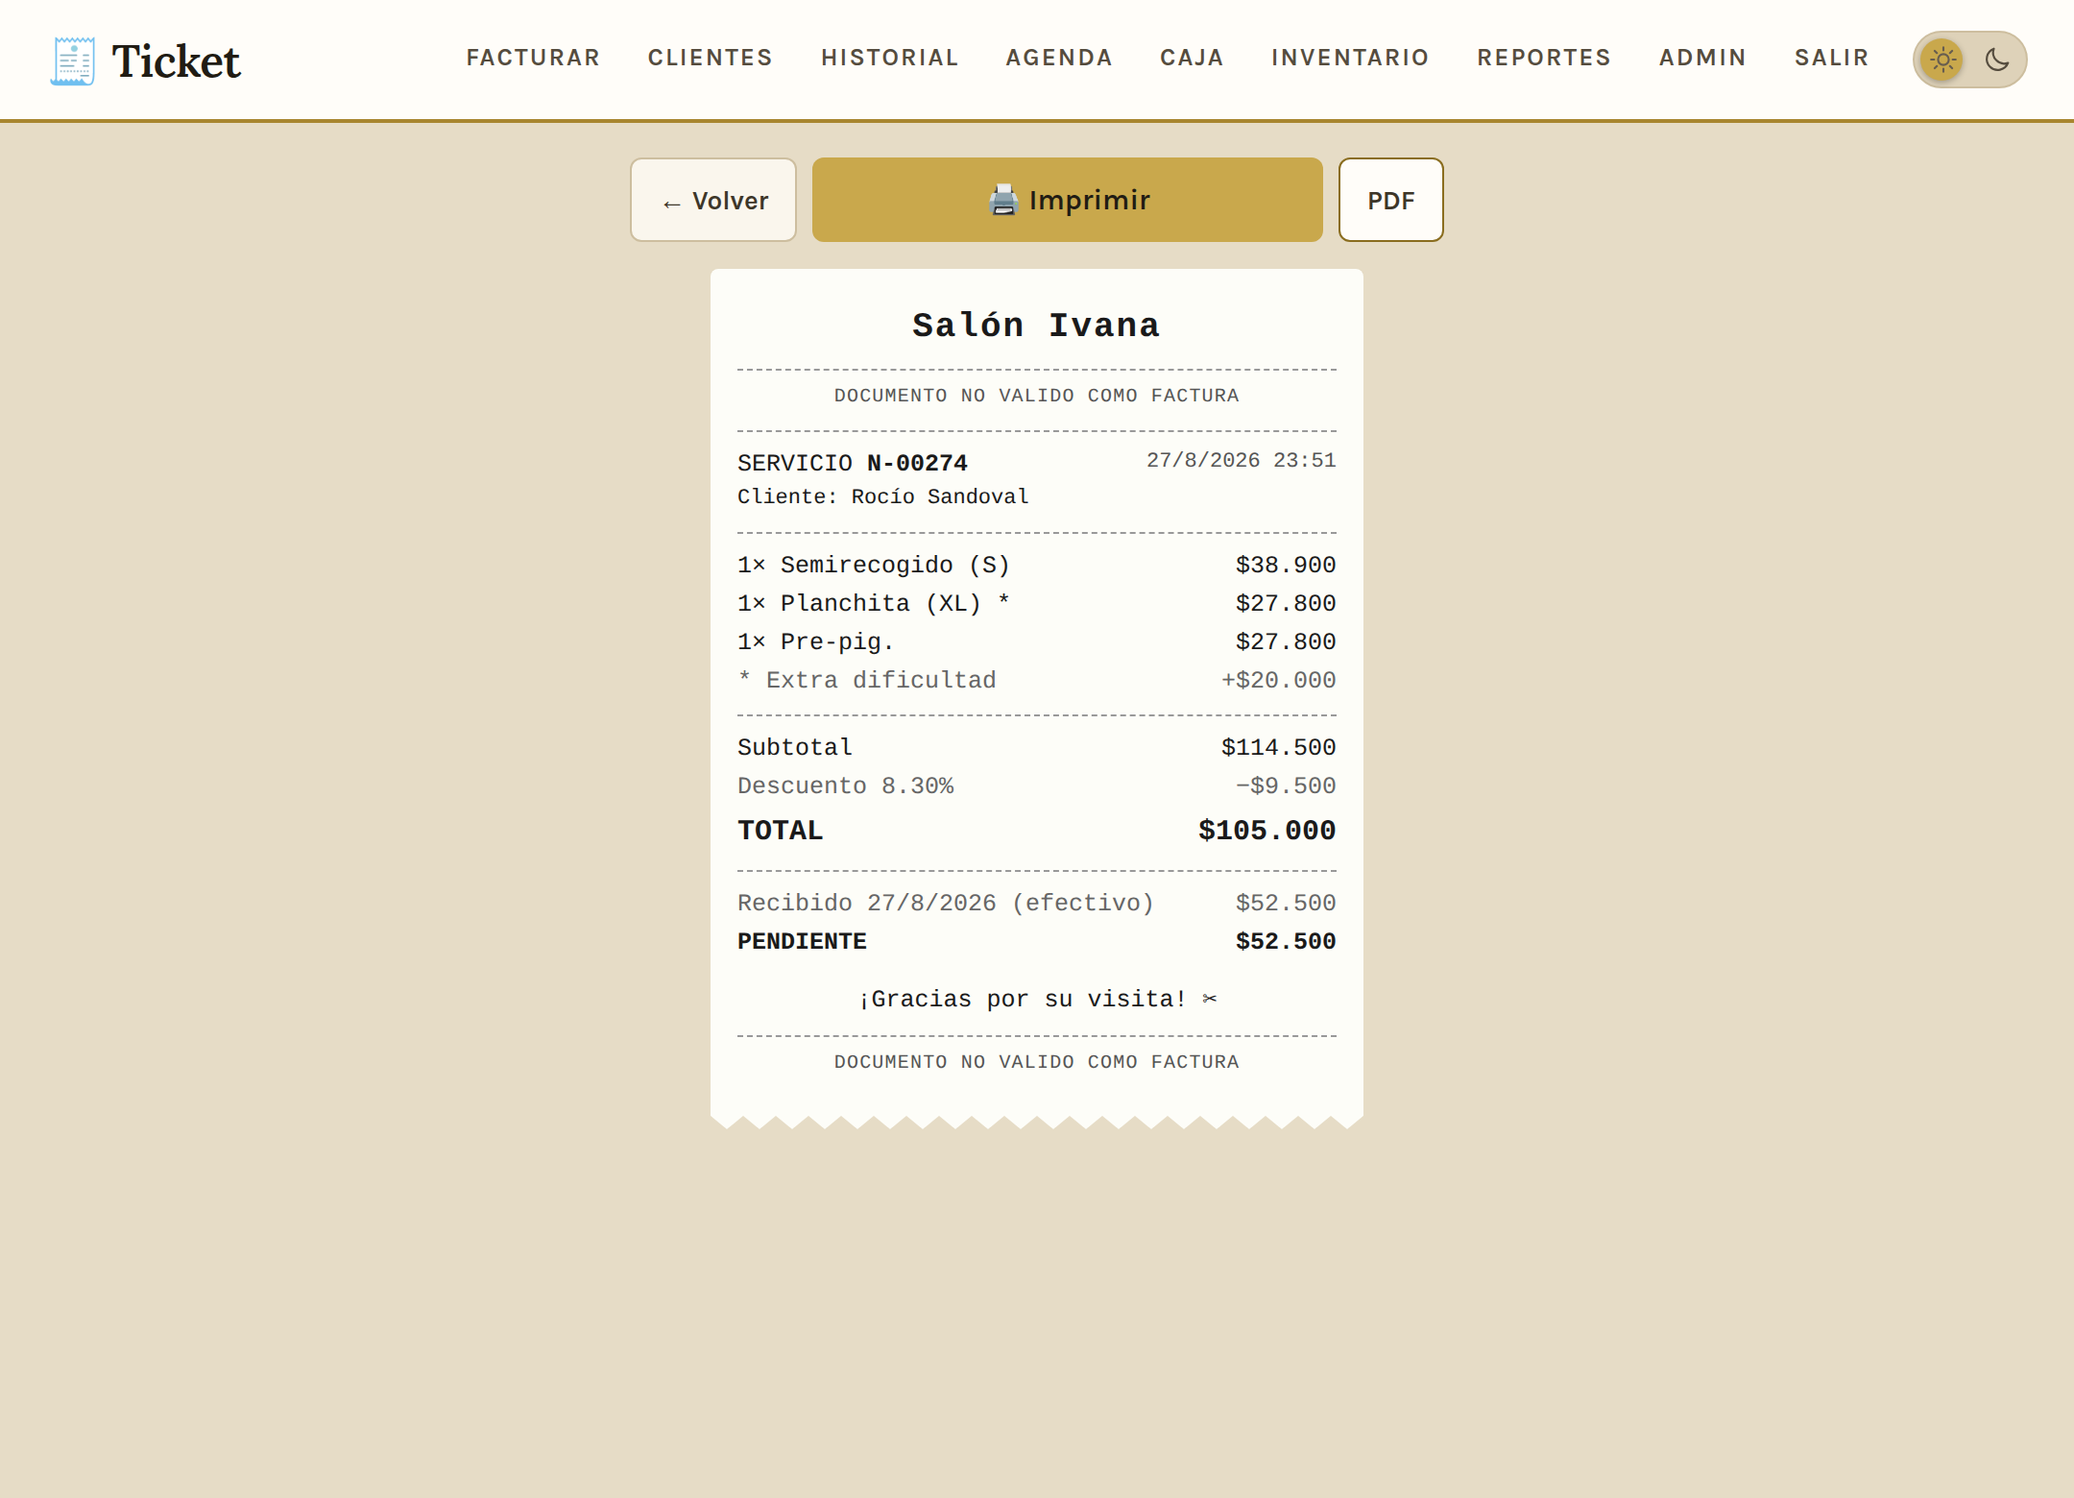
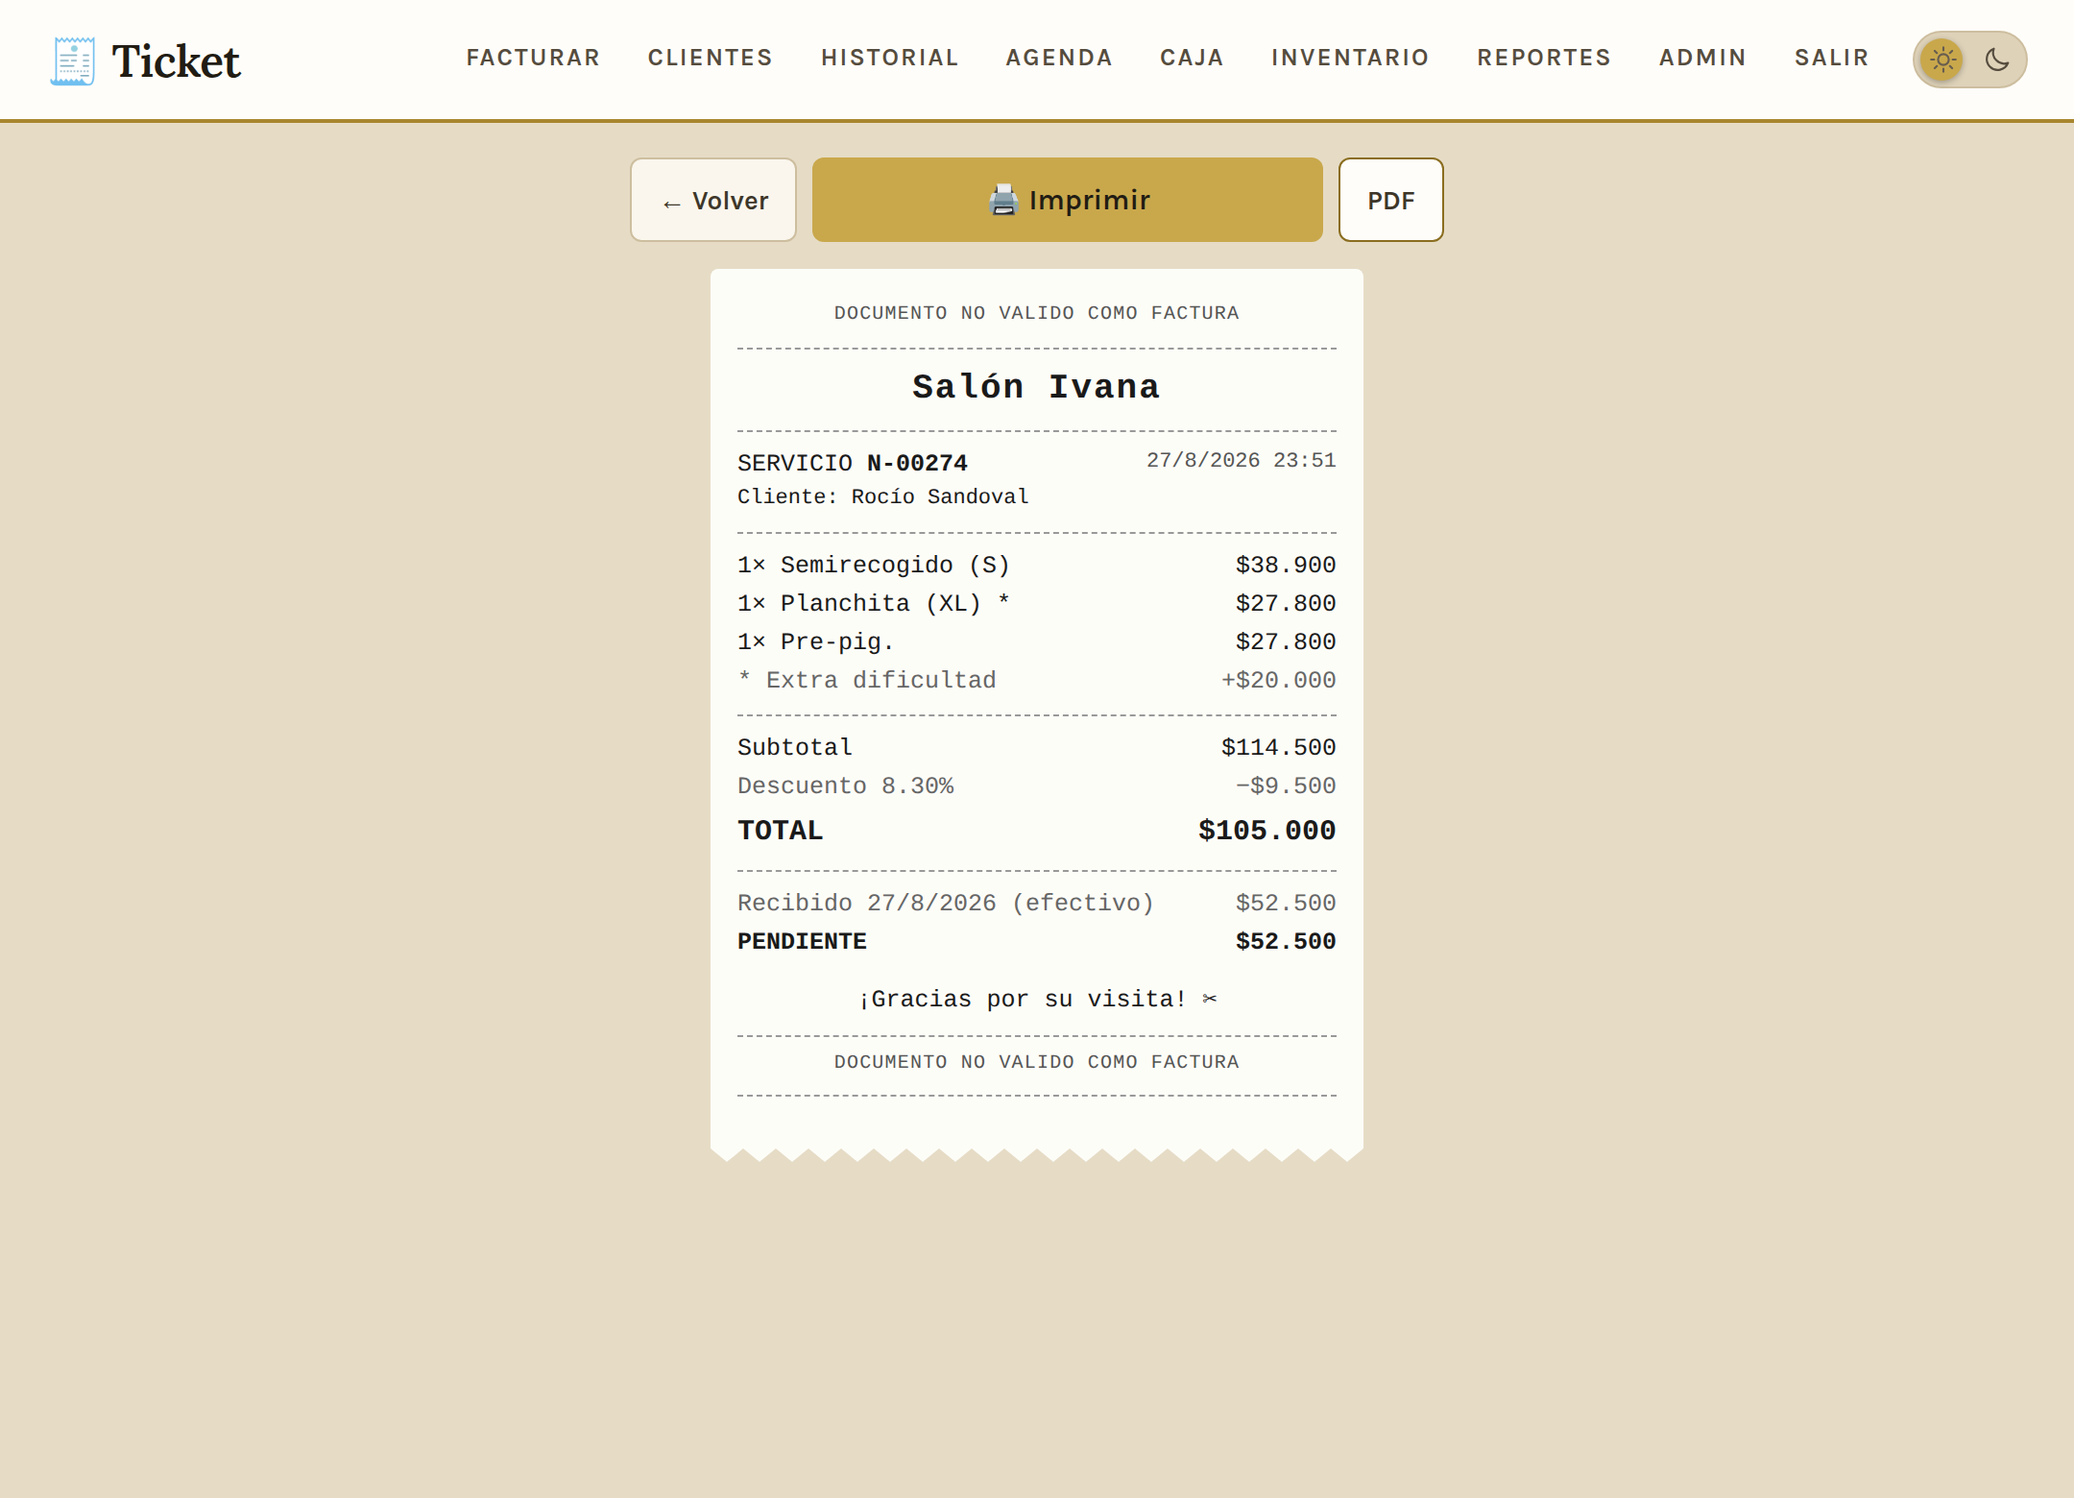
Partículas en minúscula, papel enmarcado y notas de cliente
Capitalización: las partículas van en minúscula dentro del nombre, como se
escribe en castellano — "María de los Ángeles", no "María De Los Ángeles".
Nunca se aplica a la primera palabra, así "De Luca" como apellido conserva
la mayúscula. La misma lista vive en main.py (normaliza al guardar) y en
auth.js (muestra igual los nombres viejos, que quedaron sin normalizar).

El papel: el aviso legal pasa a abrir el documento, arriba del nombre del
negocio, y al pie se cierra con una línea después del segundo aviso. Queda
enmarcado de punta a punta.

Notas de cliente. El modelo ya tenía el campo pero no había forma de
cargarlo salvo editando la ficha, así que las notas terminaban metidas
adentro del nombre: en producción hay seis clientes que se llaman "(mamá de
...)". Ahora:

  - hay un campo de nota en el alta, al lado del alias;
  - la nota se ve bajo el nombre en la lista de clientes, chica y apagada;
  - al facturar aparece en la opción del buscador, en su propio renglón, y
    queda debajo del campo mientras armás el ticket. Si cambiás el nombre
    tipeando, desaparece: ya no corresponde a nadie.

La nota se escribe a mano, así que va escapada en los tres lugares donde se
muestra. Y se guarda en el borrador, si no se perdía al cambiar de pantalla.

Changed region(s): [[0.4032, 0.1846, 0.5894, 0.2769], [0.3412, 0.7385, 0.6824, 0.7692]]

diff --git a/static/facturar.html b/static/facturar.html
@@ -512,6 +512,20 @@
     cursor:pointer;
   }
   .cli-opt:hover{ background:var(--bg-hover); }
+  /* La nota dentro de la opción: renglón propio, chica y apagada */
+  .cli-opt .cli-nota{
+    display:block;
+    margin-top:2px;
+    font-size:var(--fs-sm);
+    color:var(--text-tenue);
+  }
+  /* Y la del cliente ya elegido, debajo del campo */
+  .nota-cliente{
+    margin-top:4px;
+    font-size:var(--fs-sm);
+    color:var(--text-tenue);
+  }
+  .nota-cliente::before{ content:"↳ "; }
   /* Barra "← Volver | Nombre de categoría" (el display lo maneja el JS) */
   .barra-nav{ align-items:center; gap:10px; margin-bottom:var(--sp-3); }
   .titulo-cat{ font-weight:var(--fw-bold); color:var(--text-titulo); }
@@ -580,6 +594,7 @@
           <div style="position:relative;flex:1;">
           <input id="cliente" autocomplete="off" placeholder="Nombre del cliente (obligatorio)" style="width:100%;">
           <div id="cliDrop" class="cli-drop" style="display:none;"></div>
+          <div id="notaCliente" class="nota-cliente" style="display:none;"></div>
         </div>
       </div>
       <div class="fila">
@@ -1202,6 +1217,7 @@ function guardarBorrador(){
     ticket,
     cliente: $("#cliente").value,
     clienteIdSel,
+    notaCliente: $("#notaCliente").textContent,
     peluquero: $("#peluquero").value,
     descPct, descNombre,
     descuentoSel: $("#descuento").value,   // el índice elegido en el select de descuento
@@ -1224,6 +1240,7 @@ function restaurarBorrador(){
     });
     $("#cliente").value = d.cliente || "";
     clienteIdSel = d.clienteIdSel ?? null;
+    mostrarNotaCliente(d.notaCliente || "");
     $("#peluquero").value = d.peluquero || "";
     descPct = d.descPct || 0;
     descNombre = d.descNombre || null;
@@ -1376,16 +1393,22 @@ let cliTimer;
 
 cliInput.addEventListener("input", ()=>{
   clienteIdSel = null;                          // al tipear se invalida cualquier selección previa
+  mostrarNotaCliente("");                       // y la nota deja de corresponder
   const term = cliInput.value.trim();
   clearTimeout(cliTimer);
   if(!term){ cliDrop.style.display="none"; return; }
   cliTimer = setTimeout(async ()=>{             // debounce: espera 200ms a que dejes de tipear
     const res = await (await authFetch("/api/clientes?q="+encodeURIComponent(term))).json();
     if(!res.length){ cliDrop.style.display="none"; return; }
-    cliDrop.innerHTML = res.slice(0,8).map(c=>
-      `<div class="cli-opt" data-id="${c.id}" data-nom="${c.nombre.replace(/"/g,'&quot;')}">
-        <b>${c.nombre}</b> <span class="muted">#${c.id}${c.telefono? ' · '+c.telefono : ''}</span>
-      </div>`).join("");
+    cliDrop.innerHTML = res.slice(0,8).map(c=>{
+      // La nota se muestra al elegir, en un renglón propio y apagado: sirve para
+      // reconocer al cliente ("mamá de Sofía") sin taparle el nombre.
+      const nota = (c.notas||"").trim();
+      return `<div class="cli-opt" data-id="${c.id}" data-nom="${esc(c.nombre)}"${nota?` data-nota="${esc(nota)}"`:""}>
+        <b>${esc(c.nombre)}</b> <span class="muted">#${c.id}${c.telefono? ' · '+esc(c.telefono) : ''}</span>
+        ${nota ? `<span class="cli-nota">${esc(nota)}</span>` : ""}
+      </div>`;
+    }).join("");
     cliDrop.style.display="block";
   }, 200);
 });
@@ -1395,7 +1418,18 @@ cliDrop.addEventListener("click", e=>{          // elegir una opción → guarda
   clienteIdSel = parseInt(opt.dataset.id);
   cliInput.value = opt.dataset.nom;
   cliDrop.style.display = "none";
+  mostrarNotaCliente(opt.dataset.nota || "");
 });
+
+/* La nota del cliente elegido queda a la vista mientras se arma el ticket, en
+   un renglón chico debajo del campo. No es un cartel ni bloquea nada: si
+   decía algo importante ("no le gusta el secado"), está ahí. */
+function mostrarNotaCliente(nota){
+  const caja = $("#notaCliente");
+  if(!caja) return;
+  caja.textContent = nota;
+  caja.style.display = nota ? "" : "none";
+}
 
 document.addEventListener("click", e=>{         // cerrar si clickeás afuera
   if(!cliInput.contains(e.target) && !cliDrop.contains(e.target)) cliDrop.style.display="none";

diff --git a/static/ticket.html b/static/ticket.html
@@ -183,13 +183,14 @@ function render(){
   const d=COMP, esPresu=d.tipo==="presupuesto";
   const partes=[];
 
+  // El aviso legal abre el papel, antes del nombre del negocio
+  partes.push(`<div class="c legal">${LEGAL_TXT}</div>`);
+  partes.push('<hr class="sep">');
   // encabezado del negocio (los campos vacíos no salen)
   partes.push(`<div class="c marca">${esc(NEGOCIO.nombre||"")}</div>`);
   const datos=[NEGOCIO.direccion, NEGOCIO.telefono&&("Tel: "+NEGOCIO.telefono), NEGOCIO.instagram].filter(Boolean);
   if(datos.length) partes.push(`<div class="c chico">${datos.map(esc).join("<br>")}</div>`);
 
-  partes.push('<hr class="sep">');
-  partes.push(`<div class="c legal">${LEGAL_TXT}</div>`);
   partes.push('<hr class="sep">');
   partes.push(`<div class="fila"><span>${esPresu?"PRESUPUESTO":"SERVICIO"} <b>${numComp(d.tipo,d.numero)}</b></span><span class="der chico">${fechaLocal(d.fecha)}</span></div>`);
   if(d.cliente_nombre) partes.push(`<div class="fila chico"><span>Cliente: ${esc(d.cliente_nombre)}</span></div>`);
@@ -273,6 +274,7 @@ function render(){
   partes.push(`<div class="c gracias">¡Gracias por su visita! ✂</div>`);
   partes.push('<hr class="sep">');
   partes.push(`<div class="c legal">${LEGAL_TXT}</div>`);
+  partes.push('<hr class="sep">');       // la línea que cierra el papel
   $("#papel").innerHTML=partes.join("");
 }
 
@@ -490,12 +492,12 @@ function generarEscpos(){
   raw(0x1b,0x40);                            // reset
   if(ACENTOS) raw(0x1b,0x74,2);              // tabla CP850: acentos del español
   centro(true);
+  lin(LEGAL_TXT);                            // el aviso abre el papel
+  centro(false); sep(); centro(true);
   grande(true); negrita(true); lin(NEGOCIO.nombre||""); negrita(false); grande(false);
   [NEGOCIO.direccion, NEGOCIO.telefono&&("Tel: "+NEGOCIO.telefono), NEGOCIO.instagram]
     .filter(Boolean).forEach(x=>lin(x));
   centro(false);
-  sep();
-  centro(true); lin(LEGAL_TXT); centro(false);
   sep();
   lin(fila2((esPresu?"PRESUPUESTO ":"SERVICIO ")+numComp(d.tipo,d.numero), fechaLocal(d.fecha)));
   // El peluquero NO va en el papel: es dato interno. Se sigue guardando en el
@@ -567,6 +569,7 @@ function generarEscpos(){
   lin(); centro(true); lin("¡Gracias por su visita!"); centro(false);
   sep();
   centro(true); lin(LEGAL_TXT); centro(false);
+  sep();                                     // la línea que cierra el papel
   raw(0x1b,0x64,4);                          // avanzar papel
   raw(0x1d,0x56,0x42,0x00);                  // corte parcial (si la comandera tiene cortador)
   return new Uint8Array(B);
@@ -587,12 +590,12 @@ function generarEscposCuenta(){
   raw(0x1b,0x40);
   if(ACENTOS) raw(0x1b,0x74,2);              // tabla CP850: acentos del español
   centro(true);
+  lin(LEGAL_TXT);
+  centro(false); sep(); centro(true);
   grande(true); negrita(true); lin(NEGOCIO.nombre||""); negrita(false); grande(false);
   [NEGOCIO.direccion, NEGOCIO.telefono&&("Tel: "+NEGOCIO.telefono), NEGOCIO.instagram]
     .filter(Boolean).forEach(x=>lin(x));
   centro(false);
-  sep();
-  centro(true); lin(LEGAL_TXT); centro(false);
   sep();
   centro(true); negrita(true); lin("CUENTA CORRIENTE"); negrita(false); centro(false);
   const ahora=new Date();
@@ -613,7 +616,7 @@ function generarEscposCuenta(){
   negrita(true); grande(true);
   lin(fila2("SALDO TOTAL",fmtP(CUENTA.saldo_total),24));
   grande(false); negrita(false);
-  lin(); sep(); centro(true); lin(LEGAL_TXT); centro(false);
+  lin(); sep(); centro(true); lin(LEGAL_TXT); centro(false); sep();
   raw(0x1b,0x64,4);
   raw(0x1d,0x56,0x42,0x00);
   return new Uint8Array(B);

diff --git a/static/clientes.html b/static/clientes.html
@@ -37,6 +37,14 @@
   .cli-row .id  { font-size:var(--fs-sm); color:var(--text-tenue); }
   .cli-row .n   { font-weight:var(--fw-bold); }
   .cli-row .meta{ font-size:var(--fs-base); color:var(--text-tenue); }
+  /* La nota: un renglón chico bajo el nombre, para que se lea sin competir */
+  .cli-row .nota{
+    display:block;
+    margin-top:2px;
+    font-size:var(--fs-sm);
+    font-weight:var(--fw-normal);
+    color:var(--text-tenue);
+  }
 
 </style>
 </head><body>
@@ -61,6 +69,7 @@
       <input id="nNombre" placeholder="Nombre y apellido" style="flex:1;min-width:160px;">
       <input id="nTel" placeholder="Teléfono (opcional)">
       <input id="nAlias" placeholder="Alias transferencia (opcional)">
+      <input id="nNotas" placeholder="Nota (ej: mamá de Sofía)" style="flex:1;min-width:180px;">
       <button id="btnNuevo">Agregar</button>
     </div>
   </div>
@@ -91,6 +100,7 @@ let CLIENTES=[], DEUDAS=new Map(), filtro="todos";
 function toast(m){const t=$("#toast");t.textContent=m;t.classList.add("show");setTimeout(()=>t.classList.remove("show"),2200);}
 function clienteId(id){ return "C-"+String(id).padStart(3,"0"); }
 const money=n=>"$"+(n||0).toLocaleString("es-AR");
+const esc=s=>String(s??"").replace(/[&<>"']/g,c=>({"&":"&amp;","<":"&lt;",">":"&gt;",'"':"&quot;","'":"&#39;"}[c]));
 
 async function cargar(){
   const q=$("#buscar").value.trim();
@@ -122,9 +132,12 @@ function renderClientes(){
     row.className="cli-row grid-cli";
     row.href="/cuenta?id="+c.id;
     const debe = DEUDAS.get(c.id);
+    // La nota va debajo del nombre, chica: es contexto ("mamá de Sofía"), no
+    // un dato de la fila. Antes esto terminaba metido dentro del nombre.
+    const nota = (c.notas||"").trim();
     row.innerHTML=`
       <span class="id">${clienteId(c.id)}</span>
-      <span class="n">${titulo(c.nombre||"")}</span>
+      <span class="n">${titulo(c.nombre||"")}${nota?`<span class="nota">${esc(nota)}</span>`:""}</span>
       <span class="meta">${c.telefono||"—"}</span>
       <span class="meta">${c.alias||"—"}</span>
       <span>${debe
@@ -147,10 +160,11 @@ document.querySelectorAll("#filtros .pill").forEach(b=>{
 $("#btnNuevo").onclick=async()=>{
   const nombre=$("#nNombre").value.trim();
   if(!nombre){ toast("Poné al menos el nombre"); return; }
-  const body={ nombre, telefono:$("#nTel").value.trim(), alias:$("#nAlias").value.trim() };
+  const body={ nombre, telefono:$("#nTel").value.trim(), alias:$("#nAlias").value.trim(),
+               notas:$("#nNotas").value.trim() };
   const r=await authFetch("/api/clientes",{method:"POST",headers:{"Content-Type":"application/json"},body:JSON.stringify(body)});
   if(!r.ok){ const e=await r.json().catch(()=>({})); toast(e.detail || "No se pudo crear"); return; }
-  $("#nNombre").value=""; $("#nTel").value=""; $("#nAlias").value="";
+  $("#nNombre").value=""; $("#nTel").value=""; $("#nAlias").value=""; $("#nNotas").value="";
   toast("Cliente agregado"); cargar();
 };
 

diff --git a/static/auth.js b/static/auth.js
@@ -96,9 +96,20 @@ function pintarBotonTema(){
 }
 window.pintarBotonTema = pintarBotonTema;
 
+/* Partículas que van en minúscula dentro de un nombre ("María de los Ángeles").
+   Tiene que coincidir con _PARTICULAS de main.py: el backend normaliza al
+   guardar y esto muestra igual los nombres viejos, que quedaron sin normalizar. */
+const PARTICULAS = new Set(["de","del","la","las","los","y","e","da","das","do",
+                            "dos","van","von","di","der","el"]);
+
 function titulo(str){
   // Ojo: \b de JS es ASCII, así que "maría" caía en "MarÍa" (la í cuenta como
-  // borde de palabra). Marcamos el arranque real: principio, espacio, guion o apóstrofo.
-  return (str||"").toLowerCase()
-    .replace(/(^|[\s'’\-])(\p{L})/gu, (_,sep,letra) => sep + letra.toUpperCase());
+  // borde de palabra). Por eso se parte por letras y no por bordes de palabra.
+  let primera = true;
+  return (str||"").toLowerCase().replace(/\p{L}[\p{L}\p{M}]*/gu, pal => {
+    const arranque = primera; primera = false;
+    // la primera palabra siempre va en mayúscula: "De Luca" como apellido cuenta
+    if(!arranque && PARTICULAS.has(pal)) return pal;
+    return pal.charAt(0).toUpperCase() + pal.slice(1);
+  });
 }

diff --git a/main.py b/main.py
@@ -188,22 +188,38 @@ def hoy_argentina():
 
 _SEPARA_PALABRA = re.compile(r"([^\W\d_]+)", re.UNICODE)
 
+# Partículas que en castellano van en minúscula dentro de un nombre: se escribe
+# "María de los Ángeles", no "María De Los Ángeles". Nunca se aplica a la
+# primera palabra: "De Luca" como apellido sí lleva mayúscula.
+_PARTICULAS = {"de", "del", "la", "las", "los", "y", "e", "da", "das", "do",
+               "dos", "van", "von", "di", "der", "el"}
+
 def nombre_propio(s: str) -> str:
-    """Cada palabra con la inicial en mayúscula y el resto en minúscula.
+    """Cada palabra con la inicial en mayúscula, salvo las partículas.
 
     Se normaliza al GUARDAR, no solo al mostrar: los nombres se tipean apurado
     entre cliente y cliente y quedaban como "MARIA lopez" o "maria LOPEZ", y
     después el mismo cliente aparecía escrito de tres formas distintas.
 
     No se usa str.title() de Python porque parte también en los apóstrofos:
-    "o'brien" saldría "O'Brien" (bien) pero "d'angelo" sale "D'Angelo" y
-    cualquier palabra con apóstrofo interno queda cortada. Acá se parte solo
-    por letras, así que los guiones y apóstrofos no rompen nada.
+    "o'brien" saldría "O'Brien" (bien) pero cualquier palabra con apóstrofo
+    interno queda cortada. Acá se parte solo por letras, así que los guiones y
+    apóstrofos no rompen nada.
     """
     if not s:
         return s
     limpio = " ".join(s.split())      # de paso, espacios dobles al tipear apurado
-    return _SEPARA_PALABRA.sub(lambda m: m.group(1)[:1].upper() + m.group(1)[1:].lower(), limpio)
+    primera = [True]                  # la primera palabra siempre va en mayúscula
+
+    def cap(m):
+        pal = m.group(1)
+        arranque = primera[0]
+        primera[0] = False
+        if not arranque and pal.lower() in _PARTICULAS:
+            return pal.lower()
+        return pal[:1].upper() + pal[1:].lower()
+
+    return _SEPARA_PALABRA.sub(cap, limpio)
 
 # ---------- auth ----------
 def usuario_actual(authorization: str = Header(default="")):
